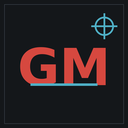
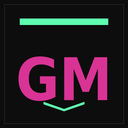
Ajustar a la identidad real de Gráficas Mera: colores corporativos (negro/magenta/menta) y 5 líneas de negocio reales (Láser, Rotulación, Merchandising, Imprenta, Textil)

Changed region(s): [[0.125, 0.3438, 0.8438, 0.875], [0.125, 0.0938, 0.9375, 0.3125]]

diff --git a/crm/index.html b/crm/index.html
@@ -10,25 +10,25 @@
 <link rel="icon" type="image/png" sizes="16x16" href="./images/icon-16.png">
 <link rel="apple-touch-icon" sizes="180x180" href="./images/icon-180.png">
 <link rel="manifest" href="./manifest.json">
-<meta name="theme-color" content="#14171a">
+<meta name="theme-color" content="#0d0d0d">
 <meta name="apple-mobile-web-app-capable" content="yes">
 <meta name="apple-mobile-web-app-title" content="GM CRM">
-<meta name="msapplication-TileColor" content="#14171a">
+<meta name="msapplication-TileColor" content="#0d0d0d">
 <meta name="msapplication-TileImage" content="./images/icon-152.png">
 <meta name="msapplication-config" content="./browserconfig.xml">
 <link rel="preconnect" href="https://fonts.googleapis.com">
-<link href="https://fonts.googleapis.com/css2?family=Space+Grotesk:wght@500;600;700&family=Inter:wght@400;500;600;700&family=IBM+Plex+Mono:wght@500&display=swap" rel="stylesheet">
+<link href="https://fonts.googleapis.com/css2?family=Archivo+Black&family=Inter:wght@400;500;600;700&family=IBM+Plex+Mono:wght@500&display=swap" rel="stylesheet">
 <style>
   :root{
-    --steel-950:#14171a; --steel-900:#1b1f23; --steel-850:#21262b; --steel-800:#272d33;
-    --steel-700:#333b42; --steel-600:#454f57; --line:#3a4149;
-    --paper:#eef1f3; --paper-dim:#a3aeb6; --ink:#d6483f; --ink-dim:#9c342c;
-    --cyan:#4fb0c6; --cyan-dim:#204048; --amber:#e0a53e; --amber-dim:#4a3a1c;
+    --steel-950:#0d0d0d; --steel-900:#161616; --steel-850:#1c1c1c; --steel-800:#242424;
+    --steel-700:#333333; --steel-600:#454545; --line:#2c2c2c;
+    --paper:#f5f5f2; --paper-dim:#a8a8a4; --ink:#d93395; --ink-dim:#a12571;
+    --cyan:#5effaf; --cyan-dim:#204a38; --amber:#e0a53e; --amber-dim:#4a3a1c;
   }
   *{box-sizing:border-box;}
   html,body{margin:0;padding:0;height:100%;}
   body{background:var(--steel-950);color:var(--paper);font-family:'Inter',sans-serif;font-size:14px;-webkit-font-smoothing:antialiased;}
-  h1,h2,h3,.display{font-family:'Space Grotesk',sans-serif;}
+  h1,h2,h3,.display{font-family:'Archivo Black',sans-serif; letter-spacing:-.01em;}
   .mono{font-family:'IBM Plex Mono',monospace;}
   ::selection{background:var(--ink-dim);color:#fff;}
 
@@ -43,7 +43,7 @@
 
   #newClientBtn{margin:16px 20px 12px;background:var(--ink);color:#fff;border:none;border-radius:3px;padding:11px 14px;
     font-family:'Inter',sans-serif;font-weight:600;font-size:13px;letter-spacing:.02em;cursor:pointer;display:flex;align-items:center;gap:8px;transition:background .15s ease;}
-  #newClientBtn:hover{background:#e2564d;}
+  #newClientBtn:hover{background:#f04dae;}
   #newClientBtn .plus{font-size:16px;line-height:1;}
 
   #searchWrap{padding:0 20px 10px;}
@@ -60,7 +60,7 @@
   .clientCard .localidad{font-size:11.5px;color:var(--paper-dim);margin-top:2px;}
   .badge{font-family:'IBM Plex Mono',monospace;font-size:9.5px;letter-spacing:.06em;text-transform:uppercase;padding:2px 7px;border-radius:20px;white-space:nowrap;}
   .badge.alta{background:var(--amber-dim);color:#f0c67c;}
-  .badge.media{background:var(--cyan-dim);color:#a7d8e3;}
+  .badge.media{background:var(--cyan-dim);color:#a8f0cf;}
   .badge.baja{background:var(--steel-700);color:var(--paper-dim);}
   .badge.sin{background:var(--steel-800);color:var(--paper-dim);border:1px dashed var(--line);}
   #emptyList{padding:30px 10px;text-align:center;color:var(--paper-dim);font-size:12.5px;line-height:1.5;}
@@ -83,7 +83,7 @@
     background:var(--steel-850);color:var(--paper);white-space:nowrap;transition:border-color .15s ease, background .15s ease;}
   button.action:hover{border-color:var(--ink-dim);}
   button.action.primary{background:var(--ink);color:#fff;border-color:var(--ink);}
-  button.action.primary:hover{background:#e2564d;}
+  button.action.primary:hover{background:#f04dae;}
   button.action.danger{color:#e79a86;}
   button.action.danger:hover{border-color:var(--ink);}
   button.action:disabled{opacity:.5;cursor:default;}
@@ -105,7 +105,7 @@
 
   .chipRow{display:flex;flex-wrap:wrap;gap:6px;}
   .chip{background:var(--steel-800);border:1px solid var(--line);color:var(--paper);font-size:12px;padding:4px 10px;border-radius:20px;}
-  .chip.gm{background:var(--cyan-dim);border-color:var(--cyan);color:#c3e6ee;}
+  .chip.gm{background:var(--cyan-dim);border-color:var(--cyan);color:#c3f5dd;}
 
   #potencialBars{display:flex;flex-direction:column;gap:10px;}
   .potRow{display:flex;align-items:center;gap:12px;}
@@ -151,7 +151,7 @@
   #loginBox input{width:100%;background:var(--steel-850);border:1px solid var(--line);border-radius:3px;padding:12px 14px;color:var(--paper);font-family:'Inter',sans-serif;font-size:14px;text-align:center;margin-bottom:12px;}
   #loginBox input:focus{outline:none;border-color:var(--ink-dim);}
   #loginBox button{width:100%;background:var(--ink);color:#fff;border:none;border-radius:3px;padding:12px;font-weight:600;font-size:13.5px;cursor:pointer;}
-  #loginBox button:hover{background:#e2564d;}
+  #loginBox button:hover{background:#f04dae;}
   #loginError{color:#e79a86;font-size:12.5px;margin-top:12px;min-height:16px;}
 
   @media (max-width: 820px){
@@ -219,7 +219,7 @@
 <div id="toast"></div>
 
 <script>
-const GM_LINEAS = ["Gran formato","Rotulación y señalética","Impresión offset y digital","Sellos y productos especiales"];
+const GM_LINEAS = ["Láser","Rotulación","Merchandising","Imprenta","Textil"];
 const FN_CLIENTES = '/.netlify/functions/crm-clientes';
 const FN_INVESTIGAR = '/.netlify/functions/crm-investigar';
 
@@ -426,7 +426,7 @@ function renderDetail(){
   const c = getClient(activeId);
   if(!c){ document.getElementById('detail').style.display='none'; document.getElementById('emptyMain').style.display='flex'; return; }
 
-  const potLabels = {granFormato:'Gran formato', rotulacion:'Rotulación y señal.', impresion:'Impresión offset/digital', sellosEspeciales:'Sellos y especiales'};
+  const potLabels = {laser:'Láser', rotulacion:'Rotulación', merchandising:'Merchandising', imprenta:'Imprenta', textil:'Textil'};
   const potLevel = v => ({Alto:100,Medio:60,Bajo:30,Nulo:6}[v] || 4);
   const potColor = v => v==='Alto' ? 'var(--cyan)' : v==='Medio' ? 'var(--ink)' : v==='Bajo' ? 'var(--paper-dim)' : 'var(--line)';
 

diff --git a/netlify/functions/crm-investigar.js b/netlify/functions/crm-investigar.js
@@ -11,13 +11,14 @@ function jsonResponse(statusCode, obj) {
 const SYSTEM_PROMPT = `Eres un agente de inteligencia comercial B2B especializado en artes gráficas e impresión industrial en España (Galicia).
 Investigas en internet la empresa que te indica el usuario y devuelves EXCLUSIVAMENTE un objeto JSON válido, sin texto antes ni después, sin bloques de código markdown.
 
-Gráficas Mera es una imprenta industrial de A Coruña que trabaja con estos materiales: PVC, cartón pluma, aluminio, metacrilato, madera, caucho y lonas. Sus líneas de producto son:
-- "Gran formato": lonas, banderolas, vinilos, cartelería de gran tamaño para escaparates, fachadas y eventos.
-- "Rotulación y señalética": neones, rótulos luminosos y no luminosos en aluminio/metacrilato/madera, señalética interior y exterior.
-- "Impresión offset y digital": talonarios, dípticos, trípticos, revistas, papelería comercial, cartas/menús.
-- "Sellos y productos especiales": sellos de caucho, boletos de lotería, numeración, productos de imprenta a medida.
+Gráficas Mera es una imprenta industrial de A Coruña que trabaja con materiales como PVC, cartón pluma, aluminio, metacrilato, madera, caucho y lonas, organizados en cinco líneas de negocio:
+- "Láser": corte y grabado láser de precisión sobre metacrilato, madera, PVC, cartón pluma, caucho, etc. (placas, expositores, piezas a medida).
+- "Rotulación": rótulos luminosos y no luminosos, vinilos, lonas, banderolas, cartelería y señalética interior/exterior en aluminio, metacrilato o madera.
+- "Merchandising": artículos promocionales personalizados (tazas, bolígrafos, regalos de empresa, objetos con logo).
+- "Imprenta": impresión offset y digital — talonarios, dípticos, trípticos, revistas, tarjetas, papelería comercial, sellos, cartas/menús.
+- "Textil": personalización textil (serigrafía, DTF, sublimación), ropa laboral, uniformes y textil de eventos.
 
-Investiga la empresa cliente: a qué se dedica, qué tipo de impresión, rotulación o señalética necesitaría por su actividad (por ejemplo: un restaurante necesita cartas/menús y cartelería; una tienda necesita rótulo de fachada y vinilos de escaparate; una empresa de eventos necesita lonas y banderolas; una oficina o notaría puede necesitar sellos y talonarios), y si hay indicios de quién le imprime o rotula actualmente. Después evalúa el encaje con cada línea de Gráficas Mera.
+Investiga la empresa cliente: a qué se dedica, qué necesidades de impresión, rotulación, textil o merchandising tendría por su actividad (por ejemplo: un restaurante necesita cartas/menús, cartelería y uniformes; una tienda necesita rótulo de fachada y vinilos de escaparate; una empresa de eventos necesita lonas, banderolas y merchandising; una oficina o notaría puede necesitar sellos y talonarios; un gimnasio puede necesitar textil personalizado), y si hay indicios de quién le imprime o rotula actualmente. Después evalúa el encaje con cada línea de Gráficas Mera.
 
 Devuelve JSON con este esquema exacto (usa "" o [] si no encuentras dato, nunca inventes):
 {
@@ -32,13 +33,13 @@ Devuelve JSON con este esquema exacto (usa "" o [] si no encuentras dato, nunca 
   "productos_detectados": [],
   "servicios": [],
   "novedades": "",
-  "potencial": {"granFormato":"Alto|Medio|Bajo|Nulo","rotulacion":"Alto|Medio|Bajo|Nulo","impresion":"Alto|Medio|Bajo|Nulo","sellosEspeciales":"Alto|Medio|Bajo|Nulo"},
+  "potencial": {"laser":"Alto|Medio|Bajo|Nulo","rotulacion":"Alto|Medio|Bajo|Nulo","merchandising":"Alto|Medio|Bajo|Nulo","imprenta":"Alto|Medio|Bajo|Nulo","textil":"Alto|Medio|Bajo|Nulo"},
   "lineas_gm_adecuadas": [],
   "prioridad": "Alta|Media|Baja",
   "resumen": "2-3 frases resumiendo la oportunidad comercial",
   "fuentes": [{"titulo":"","url":""}]
 }
-Los valores de "lineas_gm_adecuadas" deben ser exactamente, cuando apliquen: "Gran formato", "Rotulación y señalética", "Impresión offset y digital", "Sellos y productos especiales".
+Los valores de "lineas_gm_adecuadas" deben ser exactamente, cuando apliquen: "Láser", "Rotulación", "Merchandising", "Imprenta", "Textil".
 Sé conciso. Máximo 6 elementos por lista.`;
 
 exports.handler = async (event) => {
@@ -110,7 +111,7 @@ Busca en internet información real y actual. Devuelve solo el JSON.`;
     if (Array.isArray(result.productos_detectados)) c.productosDetectados = result.productos_detectados;
     if (Array.isArray(result.servicios)) c.servicios = result.servicios;
     if (result.novedades) c.novedades = result.novedades;
-    if (result.potencial) c.potencial = Object.assign({ granFormato: '', rotulacion: '', impresion: '', sellosEspeciales: '' }, result.potencial);
+    if (result.potencial) c.potencial = Object.assign({ laser: '', rotulacion: '', merchandising: '', imprenta: '', textil: '' }, result.potencial);
     if (Array.isArray(result.lineas_gm_adecuadas)) c.lineasGM = result.lineas_gm_adecuadas;
     if (result.prioridad) c.prioridad = result.prioridad;
     c.potencialGlobal = result.prioridad || c.potencialGlobal;

diff --git a/netlify/functions/crm-clientes.js b/netlify/functions/crm-clientes.js
@@ -40,7 +40,7 @@ exports.handler = async (event) => {
         nombre: '', localidad: '', direccion: '', telefono: '', web: '', redes: '',
         tipoNegocio: '', potencialGlobal: '', prioridad: '',
         proveedorActual: [], productosDetectados: [], categorias: [], servicios: [],
-        lineasGM: [], potencial: { granFormato: '', rotulacion: '', impresion: '', sellosEspeciales: '' },
+        lineasGM: [], potencial: { laser: '', rotulacion: '', merchandising: '', imprenta: '', textil: '' },
         ultimaVisita: '', proximoSeguimiento: '', observaciones: '', historial: []
       }, body.cliente || {});
       if (!c.nombre || !c.localidad) return jsonResponse(400, { error: 'Nombre y localidad son obligatorios' });
